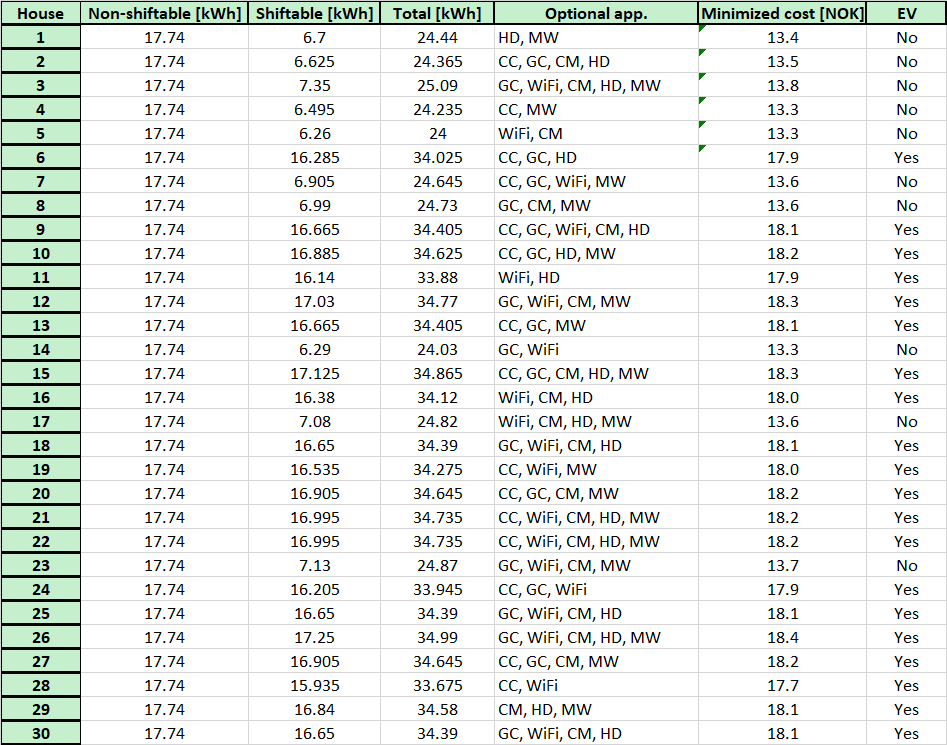
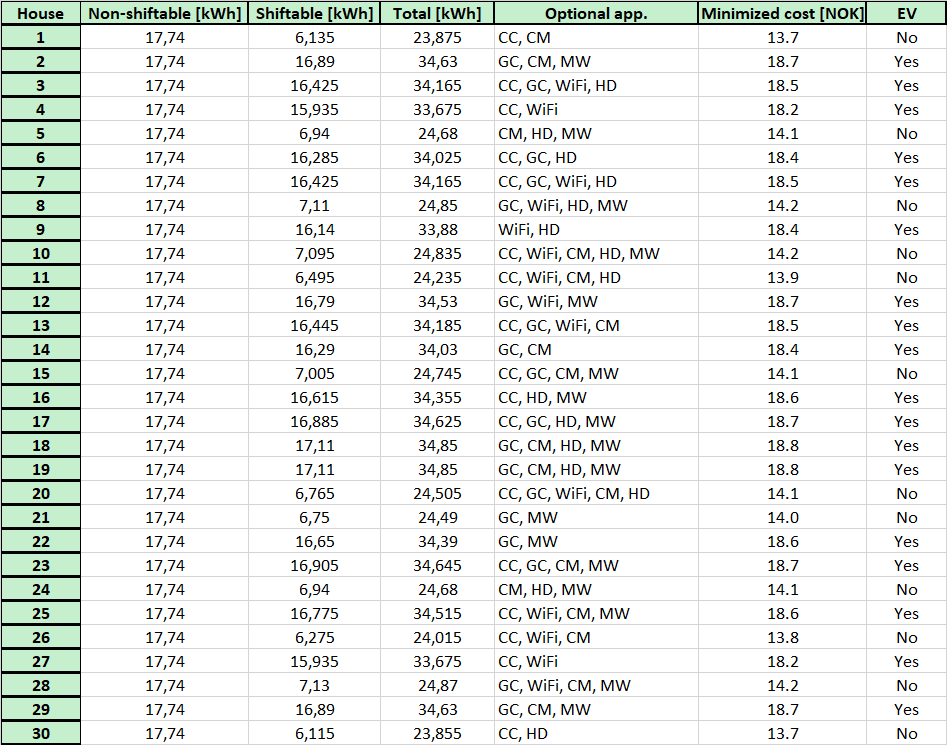
some changes

diff --git a/Assignment_1/functions.py b/Assignment_1/functions.py
@@ -23,8 +23,6 @@ def Get_df(file_name='/energy_use.xlsx'):
     nanDict  = {}
     df       = pd.read_excel(filename, header=0, skiprows=0, index_col=0, na_values=nanDict)
 
-    #header_names = list(df)
-    #print(df['Alpha']['EV'])
     return df
 
 def applications(df, households=0, Task3=False):
@@ -164,7 +162,7 @@ def calc_households(nr_non_shiftable, households=30, hours=24, make_result_table
             EV_yes_no.append('No')
 
         # Creating intervals
-        intervals = interval_severeal_app(n_app, length, alpha, beta, shuffle=False)
+        intervals = interval_severeal_app(n_app, length, alpha, beta)
 
         df = pd.concat((non_shiftable, shiftable_combined))
 
@@ -208,6 +206,9 @@ def calc_households(nr_non_shiftable, households=30, hours=24, make_result_table
     return df, price, EV_number, Total_con_s, Total_con_n, cost
 
 def random_appliances(shiftable_ran, optional):
+    """
+    Function that randomly adds appliances to household
+    """
 
     for i in range(len(shiftable_ran)):
         # make random numbers
@@ -218,7 +219,8 @@ def random_appliances(shiftable_ran, optional):
 
 def Get_price(hours, seed, ToU=False):
     """
-    Function returning either Time of Use (ToU) or Real Time Price (RTP)
+    Function returning either Time of Use (ToU) or Real Time Price (RTP).
+    The price is returned as a list with length hours
     """
 
     if ToU == True:                             # ToU price
@@ -236,17 +238,21 @@ def Get_price(hours, seed, ToU=False):
             # Outside peak-hour. Small variations during the night
             if i < 6:
                 price[i] = price[i] + rs.uniform(-0.1,0.1)
-            elif i < 17 or i > 20:
-                price[i] = price[i] + rs.uniform(-0.2,0.2)
             # During peak-hour, some higher random variation
-            else:
+            elif i >= 6 and i < 9:
                 price[i] = price[i] + rs.uniform(-0.2,0.4)
+            # During peak-hour, some higher random variation
+            elif i >= 16 and i < 20:
+                price[i] = price[i] + rs.uniform(-0.2,0.4)
+            # Outside peak-hour. Small variations during the day
+            else:
+                price[i] = price[i] + rs.uniform(-0.15,0.2)
 
     return list(price)
 
-def interval(hour=1, alpha=0, beta=23, shuffle=False):
+def interval(hour=1, alpha=0, beta=23):
     """
-    Creating a time interval
+    Creating a time interval, returned as 'numpy.ndarray'
 
     alpha       | Setup Time
     beta        | Deadline Time
@@ -284,19 +290,21 @@ def interval(hour=1, alpha=0, beta=23, shuffle=False):
 
     return interval
 
-def interval_severeal_app(n_app, length, alpha, beta, shuffle=False):
+def interval_severeal_app(n_app, length, alpha, beta):
     """
     Make intervals for several appliances
     """
     intervals = []
     for i in range(n_app):
-        intervals.append(interval(hour=length[i], alpha=alpha[i], beta=beta[i], shuffle=False))
+        intervals.append(interval(hour=length[i], alpha=alpha[i], beta=beta[i]))
 
     return np.array(intervals)
 
 def linprog_input(df, n_app, price, intervals, hours=24):
     """
-    Function returning the inputs needed in linprog
+    Function returning the inputs needed in linprog,
+    all the parameters are returned as 'numpy.ndarray', dtype=float64
+
     c       | The coefficients of the linear objective function to be minimized.
               Pricing scheme. Shape: (n_app*24,)
 
@@ -325,11 +333,11 @@ def linprog_input(df, n_app, price, intervals, hours=24):
 
     b_ub    | The inequality constraint vector.
               Power use for all appliances. Shape: (n_app*24+1*24,)
-              --> [Power use(app1)*24 + Power use(app2)*24 +...+ (Tot\_energy for all apps)*24]
+              --> [Power use(app1)*24 + Power use(app2)*24 +...+ (Tot_energy for all apps)*24]
     """
 
     c    = np.array(price*len(df))
-    b_eq = df['Daily usage [kWh]'].values
+    b_eq = df['Daily usage [kWh]'].values # Total daily usage of the appliances
 
     A_eq = np.zeros((n_app, n_app*hours))
     for i in range(n_app):
@@ -344,7 +352,7 @@ def linprog_input(df, n_app, price, intervals, hours=24):
     A_id  = np.eye(n_app*hours)
     A_ub  = np.concatenate((A_id,A_),axis=0)
 
-    energy_hour = df['Hourly usage [kW]'].values    # Power Use [kW]
+    energy_hour = df['Hourly usage [kW]'].values  # Power Use [kW]
     E_tot       = [np.sum(energy_hour)]*hours
     b           = []
     for i in energy_hour:
@@ -356,20 +364,23 @@ def linprog_input(df, n_app, price, intervals, hours=24):
 
 def result_table(hav_nonshift, hav_shift, hav_tot, cost_nr, Names, EV_yes_no, house_nr):
     """
-    A function which creates a Pandas DataFrame with the household results,
+    A function which creates a Pandas DataFrame with the household's results,
     and export the DataFrame as an excel-file, a LaTex-table and a png-image:
     result_table.xlsx
     latex_table.tex
     result_figure.png
     """
 
+    # Creates a pandas DataFrame (result_table) of the input lists
     list_of_tuples = list(zip(hav_nonshift, hav_shift, hav_tot, Names, cost_nr, EV_yes_no))
     result_table   = pd.DataFrame(list_of_tuples,index=house_nr,\
-                         columns = ['Non-shiftable [kWh]', 'Shiftable [kWh]', 'Total [kWh]', 'Optional app.','Minimized cost [NOK]', 'EV'])
+                         columns = ['Non-shiftable [kWh]', 'Shiftable [kWh]', 'Total [kWh]', \
+                                    'Optional app.','Minimized cost [NOK]', 'EV'])
 
     l = len(result_table)         # length of table
     w = len(result_table.columns) # widt of table
 
+    # Creates an excel-document of the dataframe 'result_table'
     writer   = pd.ExcelWriter('result_table.xlsx', engine='xlsxwriter')
     result_table.to_excel(writer, sheet_name='task3', float_format="%.3f", index_label='House')
     workbook = writer.book
@@ -394,27 +405,10 @@ def result_table(hav_nonshift, hav_shift, hav_tot, cost_nr, Names, EV_yes_no, ho
     header_format = workbook.add_format({'bottom':2, 'top':5, 'left':0, 'right':2, 'bg_color': '#C6EFCE'})
     worksheet.conditional_format(xlsxwriter.utility.xl_range(0, 0, l, 0), {'type': 'no_errors', 'format': house_format})
     worksheet.conditional_format(xlsxwriter.utility.xl_range(0, 0, 0, w), {'type': 'no_errors', 'format': header_format})
-    #house_format_b  = workbook.add_format({'bottom':1})
-    #worksheet.conditional_format(xlsxwriter.utility.xl_range(1, 0, l, 0), {'type': 'no_errors', 'format': house_format_b})
 
-    '''
-    right_border  = workbook.add_format({'bottom':0, 'top':0, 'left':0, 'right':5})
-    left_border  = workbook.add_format({'bottom':0, 'top':0, 'left':5, 'right':0})
-    bottom_border = workbook.add_format({'bottom':5, 'top':0, 'left':0, 'right':0})
-    top_border = workbook.add_format({'bottom':0, 'top':5, 'left':0, 'right':2})
-    last_column = workbook.add_format({'bottom':5, 'top':5, 'left':0, 'right':0})
-    worksheet.conditional_format(xlsxwriter.utility.xl_range(l, w, 0, w), {'type': 'no_errors', 'format': right_border})
-    worksheet.conditional_format(xlsxwriter.utility.xl_range(l, 0, 0, 0), {'type': 'no_errors', 'format': left_border})
-    worksheet.conditional_format(xlsxwriter.utility.xl_range(l, 0, l, 4), {'type': 'no_errors', 'format': bottom_border})
-    worksheet.conditional_format(xlsxwriter.utility.xl_range(0, 0, 0, 4), {'type': 'no_errors', 'format': top_border})
-    worksheet.conditional_format(xlsxwriter.utility.xl_range(0, 0, 0, 4), {'type': 'no_errors', 'format': last_column})
-    '''
-    writer.save()
+    writer.save() # saves the document
 
-    # Easy result table
-    #result_table.to_excel('result_table.xlsx', float_format="%.3f", index_label='House', engine='xlsxwriter')
-
-    # Creates a .tex table which can be imported to a latex document
+    # Creates a .tex table which can be imported or copied to a latex document
     latex_table = result_table.to_latex('latex_table.tex', float_format="%.2f")
 
     # Exports a png image of the result table

diff --git a/Assignment_1/latex_table.tex b/Assignment_1/latex_table.tex
@@ -2,35 +2,35 @@
 \toprule
 {} &  Non-shiftable [kWh] &  Shiftable [kWh] &  Total [kWh] &         Optional app. & Minimized cost [NOK] &   EV \\
 \midrule
-1  &                17.74 &             6.70 &        24.44 &                HD, MW &                 13.4 &   No \\
-2  &                17.74 &             6.62 &        24.37 &        CC, GC, CM, HD &                 13.5 &   No \\
-3  &                17.74 &             7.35 &        25.09 &  GC, WiFi, CM, HD, MW &                 13.8 &   No \\
-4  &                17.74 &             6.49 &        24.23 &                CC, MW &                 13.3 &   No \\
-5  &                17.74 &             6.26 &        24.00 &              WiFi, CM &                 13.3 &   No \\
-6  &                17.74 &            16.28 &        34.02 &            CC, GC, HD &                 17.9 &  Yes \\
-7  &                17.74 &             6.90 &        24.64 &      CC, GC, WiFi, MW &                 13.6 &   No \\
-8  &                17.74 &             6.99 &        24.73 &            GC, CM, MW &                 13.6 &   No \\
-9  &                17.74 &            16.66 &        34.41 &  CC, GC, WiFi, CM, HD &                 18.1 &  Yes \\
-10 &                17.74 &            16.88 &        34.62 &        CC, GC, HD, MW &                 18.2 &  Yes \\
-11 &                17.74 &            16.14 &        33.88 &              WiFi, HD &                 17.9 &  Yes \\
-12 &                17.74 &            17.03 &        34.77 &      GC, WiFi, CM, MW &                 18.3 &  Yes \\
-13 &                17.74 &            16.66 &        34.41 &            CC, GC, MW &                 18.1 &  Yes \\
-14 &                17.74 &             6.29 &        24.03 &              GC, WiFi &                 13.3 &   No \\
-15 &                17.74 &            17.12 &        34.87 &    CC, GC, CM, HD, MW &                 18.3 &  Yes \\
-16 &                17.74 &            16.38 &        34.12 &          WiFi, CM, HD &                 18.0 &  Yes \\
-17 &                17.74 &             7.08 &        24.82 &      WiFi, CM, HD, MW &                 13.6 &   No \\
-18 &                17.74 &            16.65 &        34.39 &      GC, WiFi, CM, HD &                 18.1 &  Yes \\
-19 &                17.74 &            16.54 &        34.28 &          CC, WiFi, MW &                 18.0 &  Yes \\
-20 &                17.74 &            16.90 &        34.64 &        CC, GC, CM, MW &                 18.2 &  Yes \\
-21 &                17.74 &            16.99 &        34.73 &  CC, WiFi, CM, HD, MW &                 18.2 &  Yes \\
-22 &                17.74 &            16.99 &        34.73 &  CC, WiFi, CM, HD, MW &                 18.2 &  Yes \\
-23 &                17.74 &             7.13 &        24.87 &      GC, WiFi, CM, MW &                 13.7 &   No \\
-24 &                17.74 &            16.20 &        33.95 &          CC, GC, WiFi &                 17.9 &  Yes \\
-25 &                17.74 &            16.65 &        34.39 &      GC, WiFi, CM, HD &                 18.1 &  Yes \\
-26 &                17.74 &            17.25 &        34.99 &  GC, WiFi, CM, HD, MW &                 18.4 &  Yes \\
-27 &                17.74 &            16.90 &        34.64 &        CC, GC, CM, MW &                 18.2 &  Yes \\
-28 &                17.74 &            15.93 &        33.67 &              CC, WiFi &                 17.7 &  Yes \\
-29 &                17.74 &            16.84 &        34.58 &            CM, HD, MW &                 18.1 &  Yes \\
-30 &                17.74 &            16.65 &        34.39 &      GC, WiFi, CM, HD &                 18.1 &  Yes \\
+1  &                17.74 &             6.14 &        23.88 &                CC, CM &                 13.7 &   No \\
+2  &                17.74 &            16.89 &        34.63 &            GC, CM, MW &                 18.7 &  Yes \\
+3  &                17.74 &            16.43 &        34.17 &      CC, GC, WiFi, HD &                 18.5 &  Yes \\
+4  &                17.74 &            15.94 &        33.68 &              CC, WiFi &                 18.2 &  Yes \\
+5  &                17.74 &             6.94 &        24.68 &            CM, HD, MW &                 14.1 &   No \\
+6  &                17.74 &            16.29 &        34.03 &            CC, GC, HD &                 18.4 &  Yes \\
+7  &                17.74 &            16.43 &        34.17 &      CC, GC, WiFi, HD &                 18.5 &  Yes \\
+8  &                17.74 &             7.11 &        24.85 &      GC, WiFi, HD, MW &                 14.2 &   No \\
+9  &                17.74 &            16.14 &        33.88 &              WiFi, HD &                 18.4 &  Yes \\
+10 &                17.74 &             7.10 &        24.84 &  CC, WiFi, CM, HD, MW &                 14.2 &   No \\
+11 &                17.74 &             6.50 &        24.24 &      CC, WiFi, CM, HD &                 13.9 &   No \\
+12 &                17.74 &            16.79 &        34.53 &          GC, WiFi, MW &                 18.7 &  Yes \\
+13 &                17.74 &            16.45 &        34.19 &      CC, GC, WiFi, CM &                 18.5 &  Yes \\
+14 &                17.74 &            16.29 &        34.03 &                GC, CM &                 18.4 &  Yes \\
+15 &                17.74 &             7.01 &        24.75 &        CC, GC, CM, MW &                 14.1 &   No \\
+16 &                17.74 &            16.62 &        34.36 &            CC, HD, MW &                 18.6 &  Yes \\
+17 &                17.74 &            16.89 &        34.63 &        CC, GC, HD, MW &                 18.7 &  Yes \\
+18 &                17.74 &            17.11 &        34.85 &        GC, CM, HD, MW &                 18.8 &  Yes \\
+19 &                17.74 &            17.11 &        34.85 &        GC, CM, HD, MW &                 18.8 &  Yes \\
+20 &                17.74 &             6.77 &        24.51 &  CC, GC, WiFi, CM, HD &                 14.1 &   No \\
+21 &                17.74 &             6.75 &        24.49 &                GC, MW &                 14.0 &   No \\
+22 &                17.74 &            16.65 &        34.39 &                GC, MW &                 18.6 &  Yes \\
+23 &                17.74 &            16.91 &        34.65 &        CC, GC, CM, MW &                 18.7 &  Yes \\
+24 &                17.74 &             6.94 &        24.68 &            CM, HD, MW &                 14.1 &   No \\
+25 &                17.74 &            16.78 &        34.52 &      CC, WiFi, CM, MW &                 18.6 &  Yes \\
+26 &                17.74 &             6.28 &        24.02 &          CC, WiFi, CM &                 13.8 &   No \\
+27 &                17.74 &            15.94 &        33.68 &              CC, WiFi &                 18.2 &  Yes \\
+28 &                17.74 &             7.13 &        24.87 &      GC, WiFi, CM, MW &                 14.2 &   No \\
+29 &                17.74 &            16.89 &        34.63 &            GC, CM, MW &                 18.7 &  Yes \\
+30 &                17.74 &             6.12 &        23.86 &                CC, HD &                 13.7 &   No \\
 \bottomrule
 \end{tabular}

diff --git a/Assignment_1/prosjekt1.py b/Assignment_1/prosjekt1.py
@@ -63,7 +63,7 @@ if __name__ == '__main__':
 		price = func.Get_price(hours, seed=seed, ToU=True)
 
 		# Creating intervals
-		intervals = func.interval_severeal_app(n_app, length, alpha, beta, shuffle=False)
+		intervals = func.interval_severeal_app(n_app, length, alpha, beta)
 
 		# Make vriables for linprog. c, A_eq, b_eq, A_ub, b_ub
 		c, A_eq, b_eq, A_ub, b_ub = func.linprog_input(df, n_app, price, intervals, hours)
@@ -94,7 +94,7 @@ if __name__ == '__main__':
 		price = func.Get_price(hours, seed=seed, ToU=False)
 
 		# Creating intervals
-		intervals = func.interval_severeal_app(n_app, length, alpha, beta, shuffle=False)
+		intervals = func.interval_severeal_app(n_app, length, alpha, beta)
 
 		# Make vriables for linprog. c, A_eq, b_eq, A_ub, b_ub
 		c, A_eq, b_eq, A_ub, b_ub = func.linprog_input(df, n_app, price, intervals, hours)
